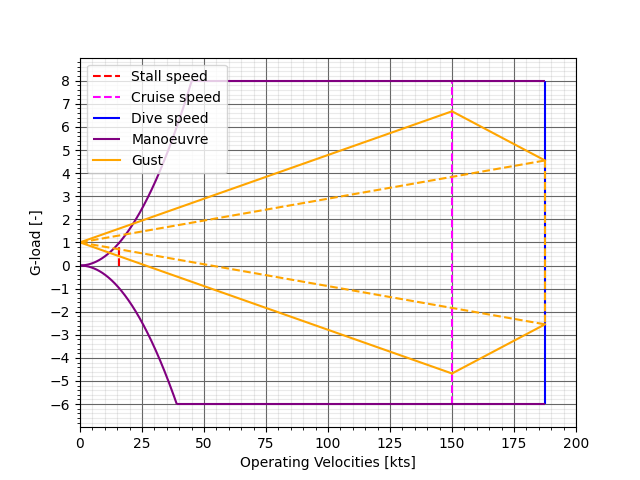
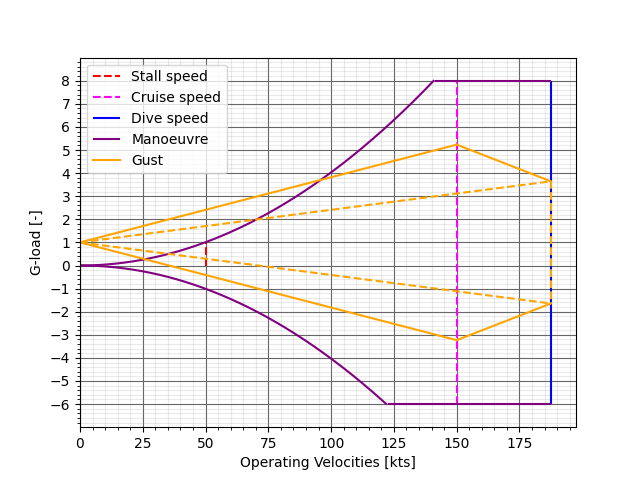
Fixed wrong vn diagram

diff --git a/Performance/manoeuvreDiagram.py b/Performance/manoeuvreDiagram.py
@@ -3,10 +3,13 @@ import numpy as np
 import math as mt
 import matplotlib.pyplot as plt
 
+kts = 1/0.5144444
+metersps = 1/kts
+
 density = 1.225
 MAC = 1.5
-S = 13.1
-W = 1035 * 9.80065
+S = 12.3
+W = 888 * 9.80065
 CLmax = 1.6
 CLalpha = 0.11 * (180 / np.pi)
 a = CLalpha * 1.1
@@ -15,19 +18,19 @@ n_max = 8
 n_min = -6
 wing_loading = W / S
 
-mu_g = (2 * wing_loading) / density * MAC * a * 9.80065
+mu_g = (2 * wing_loading) / (density * MAC * a * 9.80065)
 k_g = (0.88 * mu_g) / (5.3 + mu_g)
 U_de_cruise = 0.3048 * 50
 U_de_dive = 0.3048 * 25
 
-V = np.linspace(0, 160 * 0.51444, 1000)
+V = np.linspace(0, 160 * metersps, 1000)
 V_cruise = 150 * 0.514444
 V_dive = 1.25 * V_cruise
-q = 0.5 * V ** 2 * S
+q = 0.5 * V ** 2  * density
 
 
-n_pos = (q * CNmax) / wing_loading
-n_neg = (q * -CNmax) / wing_loading
+n_pos = (q * CNmax * S) / W
+n_neg = (q * -CNmax * S) / W
 
 n_gust_cruise_pos = 1 + (
     (k_g * density * U_de_cruise * V_cruise * a) / (2 * wing_loading)
@@ -45,21 +48,19 @@ for i in range(len(V)):
     if mt.isclose(n_neg[i], -6, rel_tol=0.01):
         V_prime = V[i]
 
-
+V_stall = 50 * metersps
 V_manu = V_stall * np.sqrt(n_max)
 
-#%%
-plt.xlim(0, 200)
+plt.xlim(0, V_dive*kts+10)
 plt.ylim(-7, 9)
 
-meterspersec = 1/0.5144444
 # Speed 
-plt.vlines(V_stall *meterspersec, ymax=1, ymin=0, color="red", label="Stall speed", linestyle="--")
+plt.vlines(V_stall*kts , ymax=1, ymin=0, color="red", label="Stall speed", linestyle="--")
 # plt.vlines(
 #     V_prime, ymax=0, ymin=n_min, color="black", linestyle="--"
 # )
 plt.vlines(
-    V_cruise *meterspersec,
+    V_cruise*kts ,
     ymax=n_max,
     ymin=n_min,
     color="fuchsia",
@@ -70,24 +71,24 @@ plt.vlines(
 n_pos = [n_pos[i] for i in range(len(n_pos)) if n_pos[i] <=8]
 n_neg = [n_neg[i] for i in range(len(n_neg)) if n_neg[i] >=-6]
 
-plt.vlines(V_dive *meterspersec, ymax=n_max, ymin=n_min, color="Blue", label="Dive speed")
+plt.vlines(V_dive*kts , ymax=n_max, ymin=n_min, color="Blue", label="Dive speed")
 
-vplot = V*meterspersec
+vplot = V *kts
 # Manoeuvre Diagram
-plt.hlines(n_max, xmin=V_manu*meterspersec, xmax=V_dive*meterspersec, color="purple", label="Manoeuvre")
-plt.hlines(n_min, xmin=V_prime*meterspersec, xmax=V_dive*meterspersec, color="purple")
+plt.hlines(n_max, xmin=V_manu*kts, xmax=V_dive*kts, color="purple", label="Manoeuvre")
+plt.hlines(n_min, xmin=V_prime*kts, xmax=V_dive*kts, color="purple")
 plt.plot(vplot[:len(n_pos)], n_pos, color="purple")
 plt.plot(vplot[:len(n_neg)], n_neg, color="purple")
 
 # Dust Diagram
-plt.plot([0, V_cruise*meterspersec], [1, n_gust_cruise_pos], color="orange", label="Gust")
-plt.plot([0, V_cruise*meterspersec], [1, n_gust_cruise_neg], color="orange")
-plt.plot([0, V_dive*meterspersec], [1, n_gust_dive_pos], color="orange", linestyle="--")
-plt.plot([0, V_dive*meterspersec], [1, n_gust_dive_neg], color="orange", linestyle="--")
-plt.plot([V_cruise*meterspersec, V_dive*meterspersec], [n_gust_cruise_pos, n_gust_dive_pos], color="orange")
-plt.plot([V_cruise*meterspersec, V_dive*meterspersec], [n_gust_cruise_neg, n_gust_dive_neg], color="orange")
+plt.plot([0, V_cruise*kts], [1, n_gust_cruise_pos], color="orange", label="Gust")
+plt.plot([0, V_cruise*kts], [1, n_gust_cruise_neg], color="orange")
+plt.plot([0, V_dive*kts], [1, n_gust_dive_pos], color="orange", linestyle="--")
+plt.plot([0, V_dive*kts], [1, n_gust_dive_neg], color="orange", linestyle="--")
+plt.plot([V_cruise*kts, V_dive*kts], [n_gust_cruise_pos, n_gust_dive_pos], color="orange")
+plt.plot([V_cruise*kts, V_dive*kts], [n_gust_cruise_neg, n_gust_dive_neg], color="orange")
 plt.plot(
-    [V_dive*meterspersec, V_dive*meterspersec], [n_gust_dive_pos, n_gust_dive_neg], color="orange", linestyle="--"
+    [V_dive*kts, V_dive*kts], [n_gust_dive_pos, n_gust_dive_neg], color="orange", linestyle="--"
 )
 
 #Set the grid nicely

diff --git a/Performance/Vn_diagramV2.py b/Performance/Vn_diagramV2.py
@@ -1,0 +1,31 @@
+#%%
+import matplotlib.pyplot as plt
+import numpy as np  
+
+metersps = 0.51444 # From kts to m/s
+kts = 1/0.5144444# From m/2 to kts
+feet = 1/ 0.3048 # from meter to feet 
+lbs = 2.20462 # from kg to lbs
+
+V_stall = 50 * metersps # m/s 
+
+Clmax = 1.6
+rho = 0.6601
+S = 12.3 # m^2
+mass1 = 888
+mass2 = 978 
+weight1 = mass1 * 9.81
+weight2 = mass2 * 9.81
+
+V_cruise = 150 * metersps
+V_a = (8*weight1 /(0.5*rho*S *Clmax))**0.5
+
+speeds = np.linspace(0, V_a, 1000)
+gloads = 0.5 * rho * 
+print(V_a*kts)
+
+print(V_cruise*metersps)
+
+
+
+# %%
